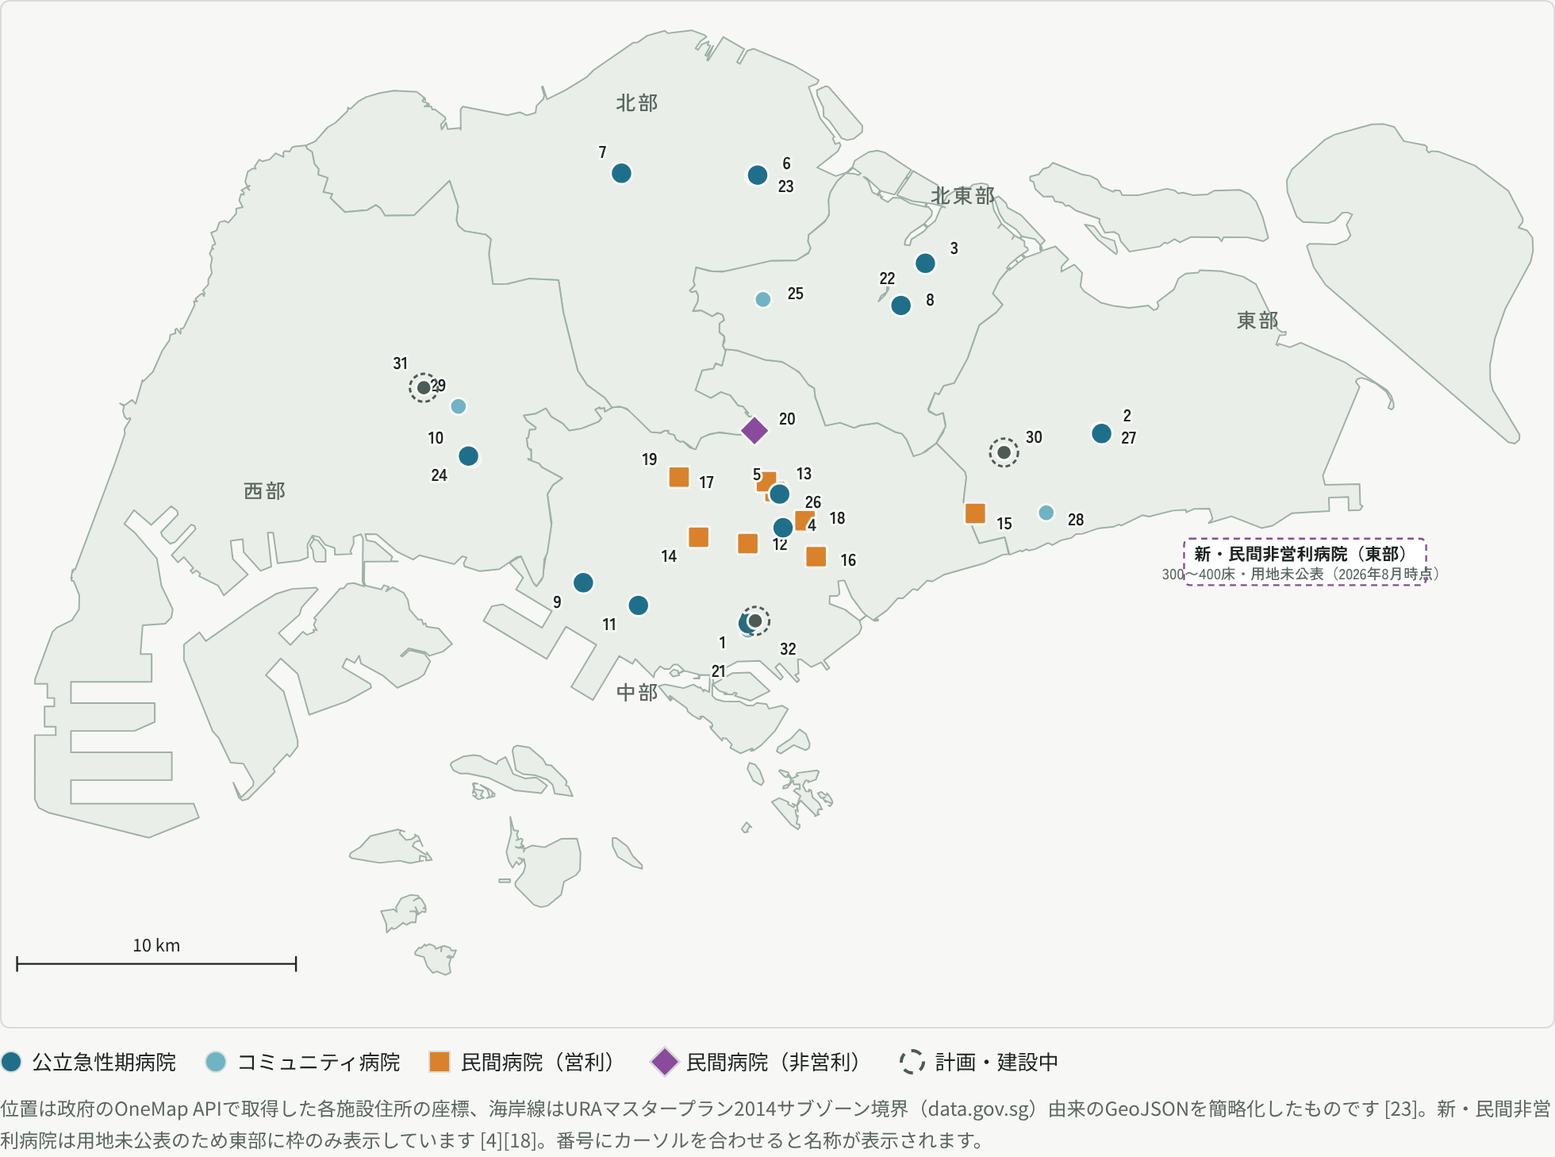
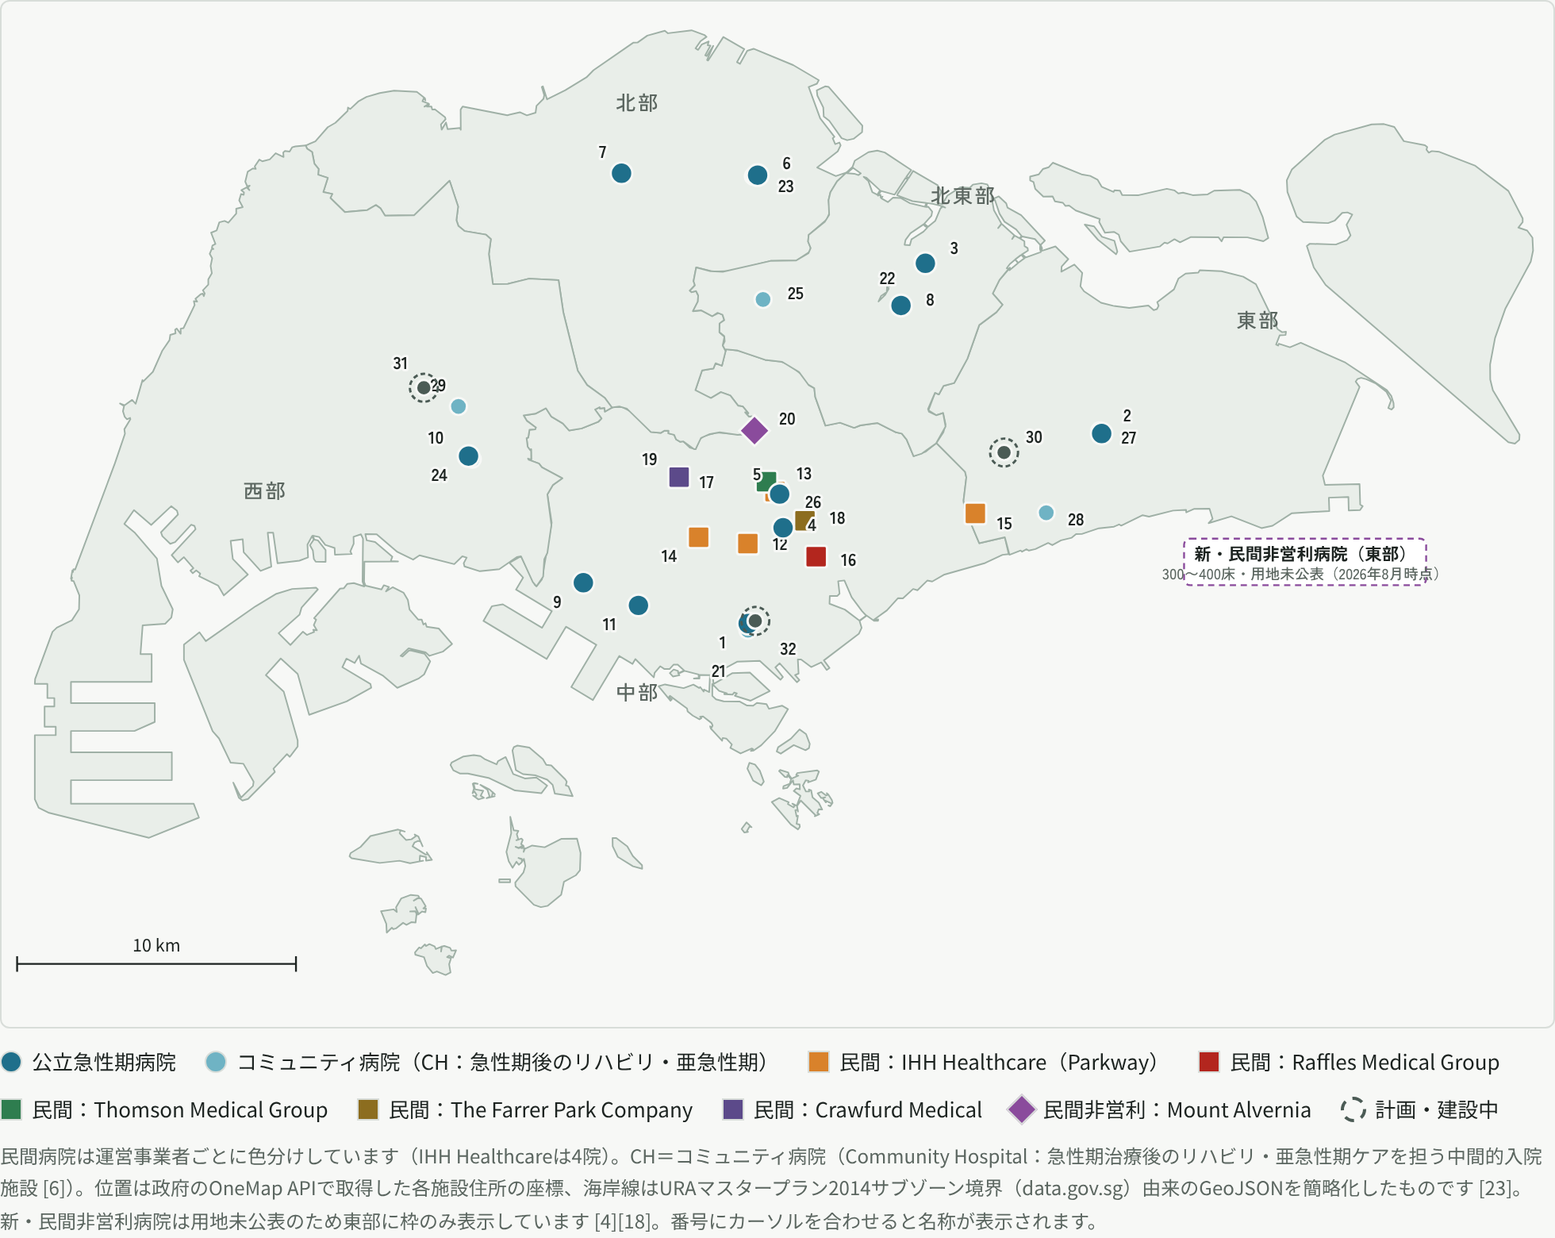
Colour private hospitals by operator on the Singapore map
Distinguish IHH, Raffles, Thomson, Farrer Park, Crawfurd and the
not-for-profit Mount Alvernia on the map legend and tables, and spell
out that CH means community hospital.

Claude-Session: https://claude.ai/code/session_0156dCdTmSmiwz1FfqRTTYCf

diff --git a/20261022_singapore_healthcare_map.html b/20261022_singapore_healthcare_map.html
@@ -7,7 +7,11 @@
   --bg:#f7f8f6; --fg:#1c2320; --muted:#5b6660; --line:#d8ddd9; --panel:#ffffff; --panel2:#eef2ef;
   --pub:#1f6f8b;   /* 公立急性期 */
   --com:#6fb3c4;   /* コミュニティ病院 */
-  --prv:#d9822b;   /* 民間（営利） */
+  --ihh:#d9822b;   /* IHH Healthcare (Parkway) */
+  --raf:#b3261e;   /* Raffles Medical Group */
+  --tho:#2e7d4f;   /* Thomson Medical Group */
+  --far:#8c6d1f;   /* The Farrer Park Company */
+  --cra:#5c4a8a;   /* Crawfurd Medical */
   --nfp:#8a4b9c;   /* 民間非営利 */
   --plan:#4b5b55;  /* 計画・建設中 */
   --land:#e9eee9; --landline:#9fb0a6; --sea:#f7f8f6;
@@ -16,11 +20,11 @@
 }
 @media (prefers-color-scheme: dark){ :root:not([data-theme="light"]){
   --bg:#141917; --fg:#e8ece9; --muted:#a5b0aa; --line:#2d3733; --panel:#1c2320; --panel2:#232c28;
-  --pub:#5fb0cc; --com:#8fcad8; --prv:#f0a452; --nfp:#c48ad4; --plan:#aab6b0;
+  --pub:#5fb0cc; --com:#8fcad8; --ihh:#f0a452; --raf:#f07a70; --tho:#6cc695; --far:#d4b45a; --cra:#a996d9; --nfp:#c48ad4; --plan:#aab6b0;
   --land:#242d29; --landline:#6f8178; --sea:#141917; color-scheme:dark } }
 :root[data-theme="dark"]{
   --bg:#141917; --fg:#e8ece9; --muted:#a5b0aa; --line:#2d3733; --panel:#1c2320; --panel2:#232c28;
-  --pub:#5fb0cc; --com:#8fcad8; --prv:#f0a452; --nfp:#c48ad4; --plan:#aab6b0;
+  --pub:#5fb0cc; --com:#8fcad8; --ihh:#f0a452; --raf:#f07a70; --tho:#6cc695; --far:#d4b45a; --cra:#a996d9; --nfp:#c48ad4; --plan:#aab6b0;
   --land:#242d29; --landline:#6f8178; --sea:#141917; color-scheme:dark }
 body{background:var(--bg);color:var(--fg);font-family:var(--body);line-height:1.7;font-size:15px;
   padding-left:max(16px,env(safe-area-inset-left,0px));padding-right:max(16px,env(safe-area-inset-right,0px));padding-block:24px 48px}
@@ -40,7 +44,7 @@ li{margin-bottom:4px}
 .kpi span{font-size:12px;color:var(--muted)}
 .flow{display:grid;grid-template-columns:repeat(auto-fit,minmax(170px,1fr));gap:10px;margin:14px 0}
 .flow .box{background:var(--panel);border:1px solid var(--line);border-left:4px solid var(--pub);border-radius:4px;padding:10px 12px;font-size:13px;min-width:0}
-.flow .box.prv{border-left-color:var(--prv)}
+.flow .box.prv{border-left-color:var(--ihh)}
 .flow .box.com{border-left-color:var(--com)}
 .flow .box.mix{border-left-color:var(--nfp)}
 .flow .box strong{display:block;font-family:var(--display);font-size:14px;margin-bottom:4px}
@@ -56,7 +60,11 @@ figure .frame{background:var(--sea);border:1px solid var(--line);border-radius:6
 .sgmap .m circle,.sgmap .m rect{stroke:var(--sea);stroke-width:1.5}
 .sgmap .pub circle{fill:var(--pub)}
 .sgmap .com circle{fill:var(--com)}
-.sgmap .prv rect{fill:var(--prv)}
+.sgmap .ihh rect{fill:var(--ihh)}
+.sgmap .raf rect{fill:var(--raf)}
+.sgmap .tho rect{fill:var(--tho)}
+.sgmap .far rect{fill:var(--far)}
+.sgmap .cra rect{fill:var(--cra)}
 .sgmap .nfp rect{fill:var(--nfp)}
 .sgmap .plan circle{fill:var(--plan)}
 .sgmap .plan .ring{fill:none;stroke:var(--plan);stroke-width:1.5;stroke-dasharray:3 2}
@@ -78,7 +86,7 @@ th,td{border-bottom:1px solid var(--line);padding:7px 8px;text-align:left;vertic
 th{background:var(--panel2);font-weight:700;font-family:var(--display);white-space:nowrap}
 td.n{font-variant-numeric:tabular-nums;text-align:right;white-space:nowrap}
 td .tag{display:inline-block;font-size:11px;padding:1px 6px;border-radius:3px;color:#fff;margin-right:4px;white-space:nowrap}
-.tag.pub{background:var(--pub)} .tag.com{background:var(--com);color:#1c2320} .tag.prv{background:var(--prv)} .tag.nfp{background:var(--nfp)} .tag.plan{background:var(--plan)}
+.tag.pub{background:var(--pub)} .tag.com{background:var(--com);color:#1c2320} .tag.prv{background:var(--ihh)} .tag.ihh{background:var(--ihh)} .tag.raf{background:var(--raf)} .tag.tho{background:var(--tho)} .tag.far{background:var(--far)} .tag.cra{background:var(--cra)} .tag.nfp{background:var(--nfp)} .tag.plan{background:var(--plan)}
 .note{background:var(--panel2);border-left:4px solid var(--nfp);padding:10px 12px;font-size:13px;margin:12px 0}
 .src{font-size:12.5px;color:var(--muted)}
 .src li{margin-bottom:5px;word-break:break-all}
@@ -146,15 +154,15 @@ sup a{text-decoration:none;font-size:11px}
 <p>MOHは民間病院を9（うち非営利1）と数えています [5]。統計上は急性期病院20のうち公立11、非営利1、民間8です [2]。</p>
 <div class="tablewrap"><table>
 <tr><th>地図番号</th><th>病院</th><th>運営主体</th><th>所在</th><th>病床（出典）</th><th>備考</th></tr>
-<tr><td class="n">12</td><td>Mount Elizabeth Hospital</td><td>IHH Healthcare（Parkway）</td><td>Orchard</td><td class="n">IHH 4院計 697（稼働床、2024年）[15]</td><td>1979年開業 [16]</td></tr>
-<tr><td class="n">13</td><td>Mount Elizabeth Novena Hospital</td><td>IHH Healthcare（Parkway）</td><td>Novena</td><td class="n">同上</td><td>2012年開業。2008年の用地入札で建設（直近の民間病院用地放出）[4][16]</td></tr>
-<tr><td class="n">14</td><td>Gleneagles Hospital</td><td>IHH Healthcare（Parkway）</td><td>Tanglin（Napier Rd）</td><td class="n">同上</td><td>1957年開業 [16]</td></tr>
-<tr><td class="n">15</td><td>Parkway East Hospital</td><td>IHH Healthcare（Parkway）</td><td>Joo Chiat</td><td class="n">同上</td><td>東部唯一のIHH病院 [15]</td></tr>
-<tr><td class="n">16</td><td>Raffles Hospital</td><td>Raffles Medical Group</td><td>Bugis（585 North Bridge Rd）</td><td class="n">380（Wikipedia）[16]</td><td>グループの旗艦病院 [20]</td></tr>
-<tr><td class="n">17</td><td>Thomson Medical Centre</td><td>Thomson Medical Group（SGX上場）</td><td>Thomson Rd</td><td class="n">187（Wikipedia）[16]</td><td>産科・小児中心。グループ創業1979年 [22]</td></tr>
-<tr><td class="n">18</td><td>Farrer Park Hospital</td><td>The Farrer Park Company</td><td>Farrer Park駅上 Connexion</td><td class="n">121（Wikipedia）[16]</td><td>ホテル一体型の複合開発 [21]</td></tr>
-<tr><td class="n">19</td><td>Crawfurd Hospital</td><td>Crawfurd Medical</td><td>Adam Rd</td><td class="n">31（Wikipedia）[17]</td><td>2012年Fortis Colorectal→2015年Concord International→2021年現名称 [17]</td></tr>
-<tr><td class="n">20</td><td>Mount Alvernia Hospital（非営利）</td><td>フランシスコ会系の非営利法人</td><td>Thomson Rd</td><td class="n">350超 [4]</td><td>1961年60床で開院。唯一の民間非営利急性期病院 [4]</td></tr>
+<tr><td class="n">12</td><td><span class="tag ihh">IHH</span>Mount Elizabeth Hospital</td><td>IHH Healthcare（Parkway）</td><td>Orchard</td><td class="n">IHH 4院計 697（稼働床、2024年）[15]</td><td>1979年開業 [16]</td></tr>
+<tr><td class="n">13</td><td><span class="tag ihh">IHH</span>Mount Elizabeth Novena Hospital</td><td>IHH Healthcare（Parkway）</td><td>Novena</td><td class="n">同上</td><td>2012年開業。2008年の用地入札で建設（直近の民間病院用地放出）[4][16]</td></tr>
+<tr><td class="n">14</td><td><span class="tag ihh">IHH</span>Gleneagles Hospital</td><td>IHH Healthcare（Parkway）</td><td>Tanglin（Napier Rd）</td><td class="n">同上</td><td>1957年開業 [16]</td></tr>
+<tr><td class="n">15</td><td><span class="tag ihh">IHH</span>Parkway East Hospital</td><td>IHH Healthcare（Parkway）</td><td>Joo Chiat</td><td class="n">同上</td><td>東部唯一のIHH病院 [15]</td></tr>
+<tr><td class="n">16</td><td><span class="tag raf">Raffles</span>Raffles Hospital</td><td>Raffles Medical Group</td><td>Bugis（585 North Bridge Rd）</td><td class="n">380（Wikipedia）[16]</td><td>グループの旗艦病院 [20]</td></tr>
+<tr><td class="n">17</td><td><span class="tag tho">Thomson</span>Thomson Medical Centre</td><td>Thomson Medical Group（SGX上場）</td><td>Thomson Rd</td><td class="n">187（Wikipedia）[16]</td><td>産科・小児中心。グループ創業1979年 [22]</td></tr>
+<tr><td class="n">18</td><td><span class="tag far">Farrer Park</span>Farrer Park Hospital</td><td>The Farrer Park Company</td><td>Farrer Park駅上 Connexion</td><td class="n">121（Wikipedia）[16]</td><td>ホテル一体型の複合開発 [21]</td></tr>
+<tr><td class="n">19</td><td><span class="tag cra">Crawfurd</span>Crawfurd Hospital</td><td>Crawfurd Medical</td><td>Adam Rd</td><td class="n">31（Wikipedia）[17]</td><td>2012年Fortis Colorectal→2015年Concord International→2021年現名称 [17]</td></tr>
+<tr><td class="n">20</td><td><span class="tag nfp">非営利</span>Mount Alvernia Hospital</td><td>フランシスコ会系の非営利法人</td><td>Thomson Rd</td><td class="n">350超 [4]</td><td>1961年60床で開院。唯一の民間非営利急性期病院 [4]</td></tr>
 </table></div>
 <ul>
   <li><strong>IHH（Parkway）</strong>は4病院で2024年に稼働床697、入院61,909件、稼働率66%（2023年61%）。病床拡張が制約されるため低重症度ケアを外来センターへ移し、東部で200床の移行期ケア施設（TCF@East）を着工しました [15]。</li>
@@ -203,14 +211,14 @@ sup a{text-decoration:none;font-size:11px}
 <g class="m com" tabindex="0"><title>27. セント・アンドリュース・コミュニティ病院（シメイ） / St Andrew's Community Hospital</title><circle cx="707.6" cy="276.6" r="5.5"/><text x="721.6" y="284.6" text-anchor="start">27</text></g>
 <g class="m com" tabindex="0"><title>28. セント・アンドリュース・コミュニティ病院（ベドック） / St Andrew's Community Hospital (Bedok)</title><circle cx="673.2" cy="329.3" r="5.5"/><text x="687.2" y="337.3" text-anchor="start">28</text></g>
 <g class="m com" tabindex="0"><title>29. セント・ルークス病院 / St Luke's Hospital</title><circle cx="294.4" cy="260.8" r="5.5"/><text x="286.4" y="250.8" text-anchor="end">29</text></g>
-<g class="m prv" tabindex="0"><title>12. マウント・エリザベス病院 / Mount Elizabeth Hospital</title><rect x="473.9" y="342.2" width="14" height="14" rx="1.5"/><text x="496.9" y="353.2" text-anchor="start">12</text></g>
-<g class="m prv" tabindex="0"><title>13. マウント・エリザベス・ノビナ病院 / Mount Elizabeth Novena Hospital</title><rect x="491.4" y="308.7" width="14" height="14" rx="1.5"/><text x="512.4" y="307.7" text-anchor="start">13</text></g>
-<g class="m prv" tabindex="0"><title>14. グレンイーグルス病院 / Gleneagles Hospital</title><rect x="442.2" y="338.1" width="14" height="14" rx="1.5"/><text x="435.2" y="361.1" text-anchor="end">14</text></g>
-<g class="m prv" tabindex="0"><title>15. パークウェイ・イースト病院 / Parkway East Hospital</title><rect x="620.5" y="322.8" width="14" height="14" rx="1.5"/><text x="641.5" y="339.8" text-anchor="start">15</text></g>
-<g class="m prv" tabindex="0"><title>16. ラッフルズ病院 / Raffles Hospital</title><rect x="517.9" y="350.6" width="14" height="14" rx="1.5"/><text x="540.9" y="363.6" text-anchor="start">16</text></g>
-<g class="m prv" tabindex="0"><title>17. トムソン・メディカル・センター / Thomson Medical Centre</title><rect x="485.9" y="302.3" width="14" height="14" rx="1.5"/><text x="458.9" y="313.3" text-anchor="end">17</text></g>
-<g class="m prv" tabindex="0"><title>18. ファラー・パーク病院 / Farrer Park Hospital</title><rect x="510.70000000000005" y="327.5" width="14" height="14" rx="1.5"/><text x="533.7" y="336.5" text-anchor="start">18</text></g>
-<g class="m prv" tabindex="0"><title>19. クロフォード病院 / Crawfurd Hospital</title><rect x="429.6" y="299.4" width="14" height="14" rx="1.5"/><text x="422.6" y="298.4" text-anchor="end">19</text></g>
+<g class="m ihh" tabindex="0"><title>12. マウント・エリザベス病院 / Mount Elizabeth Hospital</title><rect x="473.9" y="342.2" width="14" height="14" rx="1.5"/><text x="496.9" y="353.2" text-anchor="start">12</text></g>
+<g class="m ihh" tabindex="0"><title>13. マウント・エリザベス・ノビナ病院 / Mount Elizabeth Novena Hospital</title><rect x="491.4" y="308.7" width="14" height="14" rx="1.5"/><text x="512.4" y="307.7" text-anchor="start">13</text></g>
+<g class="m ihh" tabindex="0"><title>14. グレンイーグルス病院 / Gleneagles Hospital</title><rect x="442.2" y="338.1" width="14" height="14" rx="1.5"/><text x="435.2" y="361.1" text-anchor="end">14</text></g>
+<g class="m ihh" tabindex="0"><title>15. パークウェイ・イースト病院 / Parkway East Hospital</title><rect x="620.5" y="322.8" width="14" height="14" rx="1.5"/><text x="641.5" y="339.8" text-anchor="start">15</text></g>
+<g class="m raf" tabindex="0"><title>16. ラッフルズ病院 / Raffles Hospital</title><rect x="517.9" y="350.6" width="14" height="14" rx="1.5"/><text x="540.9" y="363.6" text-anchor="start">16</text></g>
+<g class="m tho" tabindex="0"><title>17. トムソン・メディカル・センター / Thomson Medical Centre</title><rect x="485.9" y="302.3" width="14" height="14" rx="1.5"/><text x="458.9" y="313.3" text-anchor="end">17</text></g>
+<g class="m far" tabindex="0"><title>18. ファラー・パーク病院 / Farrer Park Hospital</title><rect x="510.70000000000005" y="327.5" width="14" height="14" rx="1.5"/><text x="533.7" y="336.5" text-anchor="start">18</text></g>
+<g class="m cra" tabindex="0"><title>19. クロフォード病院 / Crawfurd Hospital</title><rect x="429.6" y="299.4" width="14" height="14" rx="1.5"/><text x="422.6" y="298.4" text-anchor="end">19</text></g>
 <g class="m nfp" tabindex="0"><title>20. マウント・アルバーニア病院（非営利） / Mount Alvernia Hospital</title><rect x="478.2" y="269.4" width="14" height="14" transform="rotate(45 485.2 276.4)"/><text x="501.2" y="272.4" text-anchor="start">20</text></g>
 <g class="m pub" tabindex="0"><title>1. シンガポール総合病院 (SGH) / Singapore General Hospital</title><circle cx="481.1" cy="400.7" r="7"/><text x="467.1" y="416.7" text-anchor="end">1</text></g>
 <g class="m pub" tabindex="0"><title>2. チャンギ総合病院 (CGH) / Changi General Hospital</title><circle cx="708.9" cy="278.3" r="7"/><text x="722.9" y="270.3" text-anchor="start">2</text></g>
@@ -232,12 +240,16 @@ sup a{text-decoration:none;font-size:11px}
   </div>
   <div class="legend">
     <span><i class="sw c" style="background:var(--pub)"></i>公立急性期病院</span>
-    <span><i class="sw c" style="background:var(--com)"></i>コミュニティ病院</span>
-    <span><i class="sw" style="background:var(--prv)"></i>民間病院（営利）</span>
-    <span><i class="sw d" style="background:var(--nfp)"></i>民間病院（非営利）</span>
+    <span><i class="sw c" style="background:var(--com)"></i>コミュニティ病院（CH：急性期後のリハビリ・亜急性期）</span>
+    <span><i class="sw" style="background:var(--ihh)"></i>民間：IHH Healthcare（Parkway）</span>
+    <span><i class="sw" style="background:var(--raf)"></i>民間：Raffles Medical Group</span>
+    <span><i class="sw" style="background:var(--tho)"></i>民間：Thomson Medical Group</span>
+    <span><i class="sw" style="background:var(--far)"></i>民間：The Farrer Park Company</span>
+    <span><i class="sw" style="background:var(--cra)"></i>民間：Crawfurd Medical</span>
+    <span><i class="sw d" style="background:var(--nfp)"></i>民間非営利：Mount Alvernia</span>
     <span><i class="sw p"></i>計画・建設中</span>
   </div>
-  <figcaption>位置は政府のOneMap APIで取得した各施設住所の座標、海岸線はURAマスタープラン2014サブゾーン境界（data.gov.sg）由来のGeoJSONを簡略化したものです [23]。新・民間非営利病院は用地未公表のため東部に枠のみ表示しています [4][18]。番号にカーソルを合わせると名称が表示されます。</figcaption>
+  <figcaption>民間病院は運営事業者ごとに色分けしています（IHH Healthcareは4院）。CH＝コミュニティ病院（Community Hospital：急性期治療後のリハビリ・亜急性期ケアを担う中間的入院施設 [6]）。位置は政府のOneMap APIで取得した各施設住所の座標、海岸線はURAマスタープラン2014サブゾーン境界（data.gov.sg）由来のGeoJSONを簡略化したものです [23]。新・民間非営利病院は用地未公表のため東部に枠のみ表示しています [4][18]。番号にカーソルを合わせると名称が表示されます。</figcaption>
 </figure>
 
 <h3>地図番号と施設一覧</h3>
@@ -254,17 +266,21 @@ sup a{text-decoration:none;font-size:11px}
 <tr><td class="n">9</td><td><span class="tag pub">公立</span></td><td>National University Hospital (NUH)</td><td>NUHS</td><td>Kent Ridge再開発：2033年までに1,200床の半分を建替え＋約100床、2038年に計1,500床 [7]</td></tr>
 <tr><td class="n">10</td><td><span class="tag pub">公立</span></td><td>Ng Teng Fong General Hospital (NTFGH)</td><td>NUHS</td><td>2015年開業、Jurong Community Hospitalと一体 [16]</td></tr>
 <tr><td class="n">11</td><td><span class="tag pub">公立</span></td><td>Alexandra Hospital (AH)</td><td>NUHS</td><td>再開発後2028年から段階開業、計1,300床へ。24時間EDなし（Urgent Care Centre） [5][7]</td></tr>
-<tr><td class="n">12〜19</td><td><span class="tag prv">民間</span></td><td>第5章の表を参照</td><td>IHH／Raffles／Thomson／Farrer Park／Crawfurd</td><td>[15][16][17]</td></tr>
+<tr><td class="n">12〜15</td><td><span class="tag ihh">民間</span></td><td>Mount Elizabeth／Mount Elizabeth Novena／Gleneagles／Parkway East</td><td>IHH Healthcare（Parkway）</td><td>4院で稼働床697（2024年） [15]</td></tr>
+<tr><td class="n">16</td><td><span class="tag raf">民間</span></td><td>Raffles Hospital</td><td>Raffles Medical Group</td><td>[16][20]</td></tr>
+<tr><td class="n">17</td><td><span class="tag tho">民間</span></td><td>Thomson Medical Centre</td><td>Thomson Medical Group</td><td>[16][22]</td></tr>
+<tr><td class="n">18</td><td><span class="tag far">民間</span></td><td>Farrer Park Hospital</td><td>The Farrer Park Company</td><td>[16][21]</td></tr>
+<tr><td class="n">19</td><td><span class="tag cra">民間</span></td><td>Crawfurd Hospital</td><td>Crawfurd Medical</td><td>[17]</td></tr>
 <tr><td class="n">20</td><td><span class="tag nfp">非営利</span></td><td>Mount Alvernia Hospital</td><td>非営利</td><td>350床超 [4]</td></tr>
-<tr><td class="n">21</td><td><span class="tag com">CH</span></td><td>Outram Community Hospital</td><td>SingHealth</td><td>SGH併設 [16]</td></tr>
-<tr><td class="n">22</td><td><span class="tag com">CH</span></td><td>Sengkang Community Hospital</td><td>SingHealth</td><td>SKH併設 [16]</td></tr>
-<tr><td class="n">23</td><td><span class="tag com">CH</span></td><td>Yishun Community Hospital</td><td>NHG Health</td><td>KTPH併設 [16]</td></tr>
-<tr><td class="n">24</td><td><span class="tag com">CH</span></td><td>Jurong Community Hospital</td><td>NUHS</td><td>NTFGH併設 [16]</td></tr>
-<tr><td class="n">25</td><td><span class="tag com">CH</span></td><td>Ang Mo Kio-Thye Hua Kwan Hospital</td><td>非営利</td><td>[16]</td></tr>
-<tr><td class="n">26</td><td><span class="tag com">CH</span></td><td>Ren Ci Community Hospital</td><td>非営利</td><td>Novena [16]</td></tr>
-<tr><td class="n">27</td><td><span class="tag com">CH</span></td><td>St Andrew's Community Hospital（Simei）</td><td>非営利</td><td>CGH隣接 [16]</td></tr>
-<tr><td class="n">28</td><td><span class="tag com">CH</span></td><td>St Andrew's Community Hospital（Bedok）</td><td>非営利</td><td>2025年開設、240床 [7]</td></tr>
-<tr><td class="n">29</td><td><span class="tag com">CH</span></td><td>St Luke's Hospital</td><td>非営利</td><td>Bukit Batok [16]</td></tr>
+<tr><td class="n">21</td><td><span class="tag com">コミュニティ病院</span></td><td>Outram Community Hospital</td><td>SingHealth</td><td>SGH併設 [16]</td></tr>
+<tr><td class="n">22</td><td><span class="tag com">コミュニティ病院</span></td><td>Sengkang Community Hospital</td><td>SingHealth</td><td>SKH併設 [16]</td></tr>
+<tr><td class="n">23</td><td><span class="tag com">コミュニティ病院</span></td><td>Yishun Community Hospital</td><td>NHG Health</td><td>KTPH併設 [16]</td></tr>
+<tr><td class="n">24</td><td><span class="tag com">コミュニティ病院</span></td><td>Jurong Community Hospital</td><td>NUHS</td><td>NTFGH併設 [16]</td></tr>
+<tr><td class="n">25</td><td><span class="tag com">コミュニティ病院</span></td><td>Ang Mo Kio-Thye Hua Kwan Hospital</td><td>非営利</td><td>[16]</td></tr>
+<tr><td class="n">26</td><td><span class="tag com">コミュニティ病院</span></td><td>Ren Ci Community Hospital</td><td>非営利</td><td>Novena [16]</td></tr>
+<tr><td class="n">27</td><td><span class="tag com">コミュニティ病院</span></td><td>St Andrew's Community Hospital（Simei）</td><td>非営利</td><td>CGH隣接 [16]</td></tr>
+<tr><td class="n">28</td><td><span class="tag com">コミュニティ病院</span></td><td>St Andrew's Community Hospital（Bedok）</td><td>非営利</td><td>2025年開設、240床 [7]</td></tr>
+<tr><td class="n">29</td><td><span class="tag com">コミュニティ病院</span></td><td>St Luke's Hospital</td><td>非営利</td><td>Bukit Batok [16]</td></tr>
 <tr><td class="n">30</td><td><span class="tag plan">計画</span></td><td>Eastern General Hospital Campus（急性期＋コミュニティ）</td><td>SingHealth（公立）</td><td>Bedok North駅隣接。2024年4月20日起工、2029年から段階開業、全面開業時約1,400床 [7][8][9]</td></tr>
 <tr><td class="n">31</td><td><span class="tag plan">計画</span></td><td>Tengah General and Community Hospital</td><td>NUHS（公立）</td><td>Tengah Garden Avenue沿い。2030年代初頭完成目標 [7][8]</td></tr>
 <tr><td class="n">32</td><td><span class="tag plan">計画</span></td><td>SGH Elective Care Centre＋新National Dental Centre</td><td>SingHealth（公立）</td><td>Second Hospital Avenue。2027年までに300床 [7][8]</td></tr>
